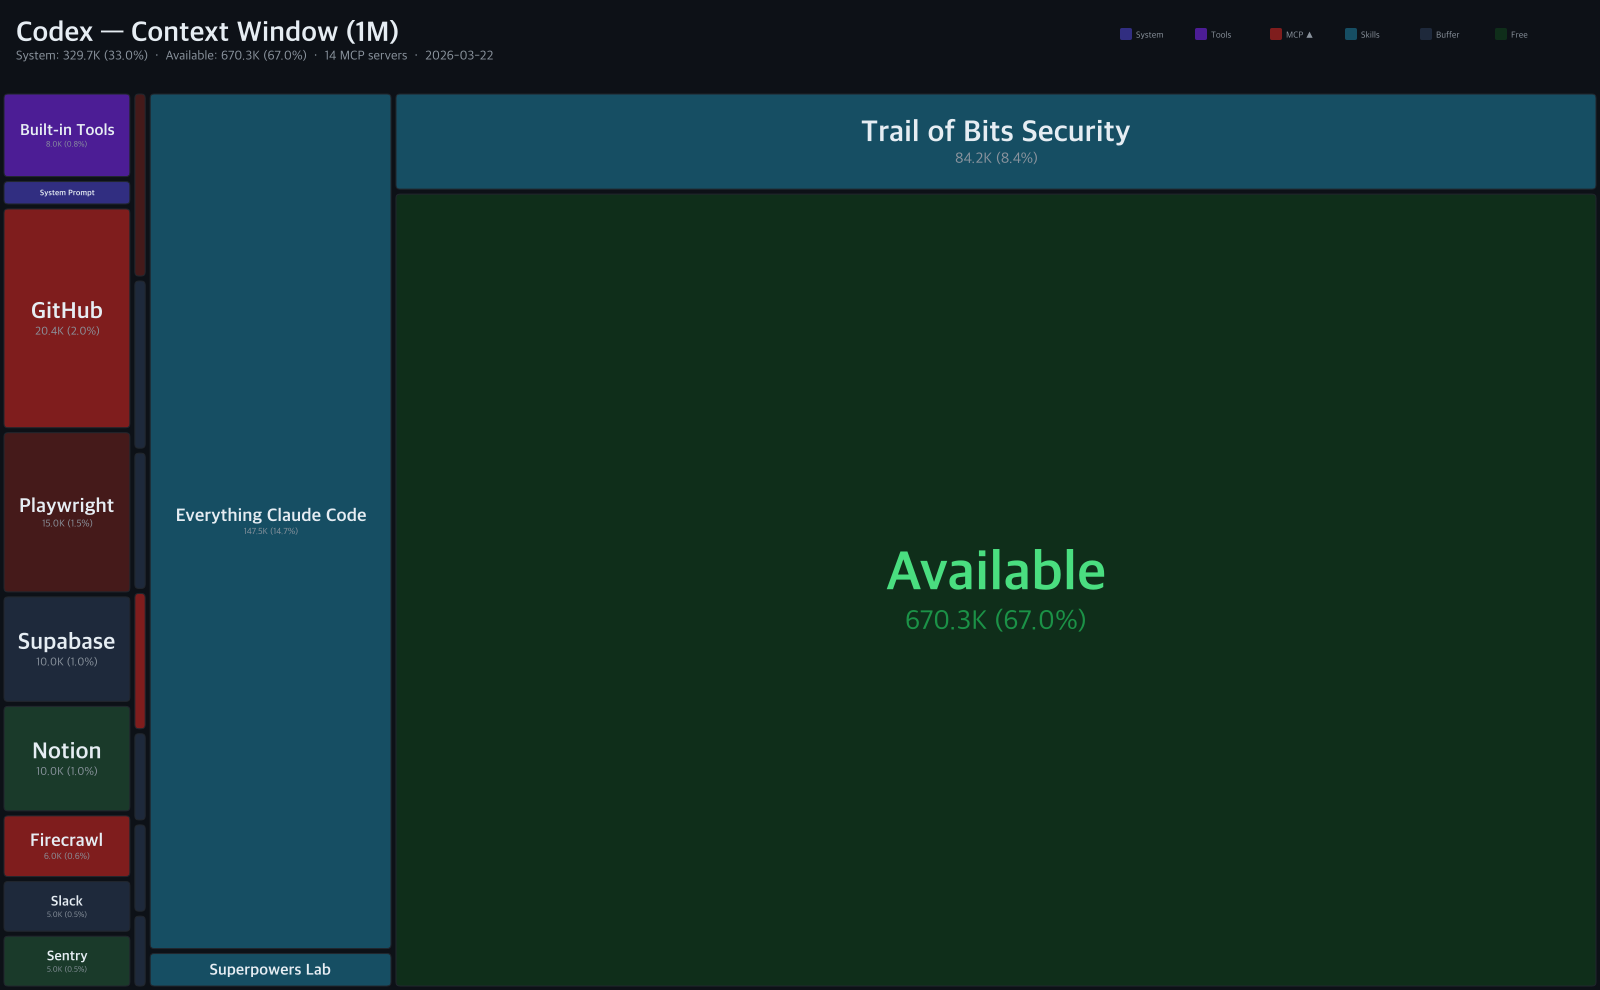
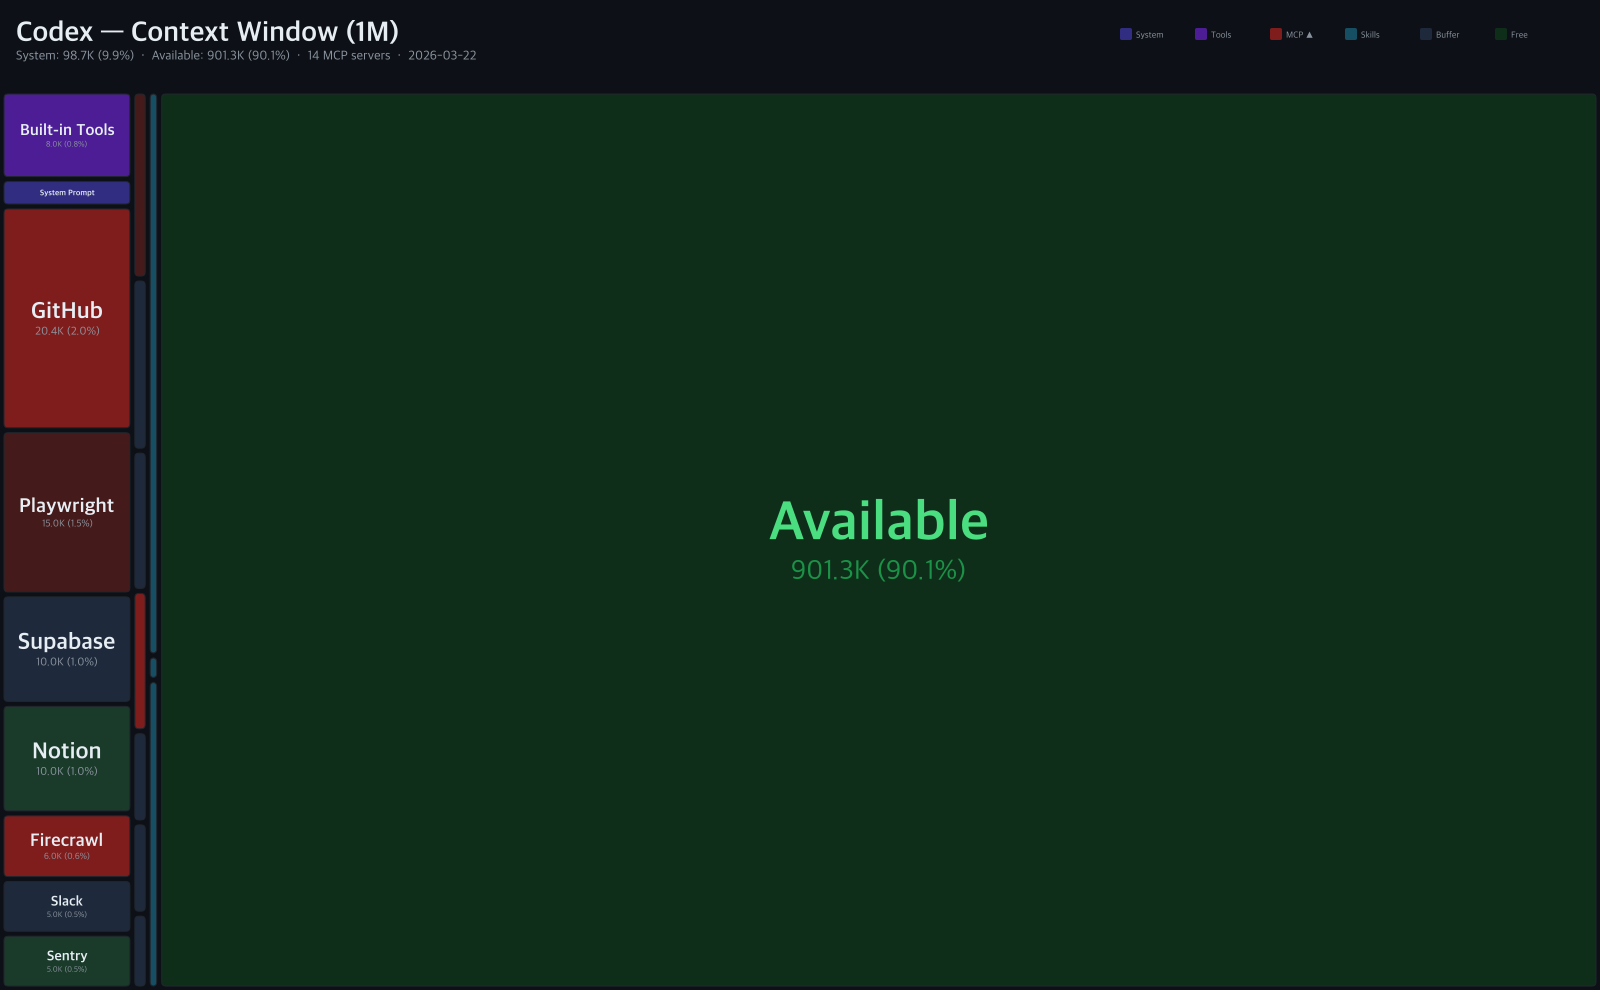
Split into MCP Index + Skill Index (metadata only)
- MCP Index: tool schema tokens, agent-agnostic
- Skill Index: description metadata only (always-on cost)
- Skill blocks sized by alwaysOnTokens, not full body
- Agent treemap also uses metadata-only for skills
- Shared renderBlock() helper for consistent styling

Changed region(s): [[0.0938, 0.0909, 1.0, 1.0], [0.4688, 0.5152, 0.6875, 0.6364], [0.0312, 0.0303, 0.3125, 0.0606]]

diff --git a/scripts/render-treemap.js b/scripts/render-treemap.js
@@ -130,9 +130,69 @@ function loadSkillData() {
   return results;
 }
 
-// ── Render Context Index (MCP + Skills) ──────────────────
+// ── Shared block renderer ────────────────────────────────
 
-function renderContextIndex(snapshot) {
+function renderBlock(ctx, leaf, HEADER, W, H, opts = {}) {
+  const d = leaf.data;
+  const x = leaf.x0, y = leaf.y0 + HEADER;
+  const w = leaf.x1 - leaf.x0, h = leaf.y1 - leaf.y0;
+  const changePct = d.change?.pct || 0;
+
+  // Background
+  ctx.fillStyle = opts.color || changeColor(changePct);
+  roundRect(ctx, x + 1, y + 1, w - 2, h - 2, 4);
+  ctx.fill();
+
+  // Border
+  ctx.strokeStyle = STYLE.border;
+  ctx.lineWidth = 1;
+  roundRect(ctx, x + 1, y + 1, w - 2, h - 2, 4);
+  ctx.stroke();
+
+  // Label
+  const pad = 6;
+  const innerW = w - pad * 2;
+  const innerH = h - pad * 2;
+  if (innerW < 15 || innerH < 10) return;
+
+  ctx.textAlign = 'center';
+  const cx = x + w / 2;
+  const cy = y + h / 2;
+
+  const shortName = d.displayName || d.name;
+  const changeTxt = changePct > 0 ? `+${changePct}%` : changePct < 0 ? `${changePct}%` : '';
+
+  if (innerH >= 28) {
+    const nameFs = fitFontSize(ctx, shortName, innerW, innerH, 'bold', 0.85, 2);
+    const showSub = innerH > nameFs * 1.6;
+    const subFs = Math.max(8, nameFs * 0.5);
+    const totalH = showSub ? nameFs + subFs * 1.3 : nameFs;
+    const startY = cy - totalH / 2;
+
+    setFont(ctx, nameFs, 'bold');
+    ctx.fillStyle = opts.textColor || STYLE.textPrimary;
+    ctx.fillText(shortName, cx, startY + nameFs * 0.85);
+
+    if (showSub && opts.subText) {
+      setFont(ctx, subFs);
+      ctx.fillStyle = changePct !== 0 ? changeBadgeColor(changePct) : STYLE.textSecondary;
+      ctx.fillText(opts.subText, cx, startY + nameFs * 0.85 + subFs * 1.4);
+    }
+  } else {
+    const fs = Math.min(innerH * 0.7, fitFontSize(ctx, shortName, innerW, innerH, 'bold', 0.9, 1));
+    if (fs >= 7) {
+      setFont(ctx, fs, 'bold');
+      ctx.fillStyle = opts.textColor || STYLE.textPrimary;
+      ctx.fillText(shortName, cx, cy + fs * 0.35);
+    }
+  }
+
+  ctx.textAlign = 'left';
+}
+
+// ── Render MCP Index ─────────────────────────────────────
+
+function renderMcpIndex(snapshot) {
   const W = 1600, H = 900;
   const HEADER = 90;
   const PAD = 3;
@@ -143,166 +203,42 @@ function renderContextIndex(snapshot) {
   ctx.fillStyle = STYLE.bg;
   ctx.fillRect(0, 0, W, H + HEADER);
 
-  // Combine MCP servers + skill packs
-  const items = [];
+  const servers = snapshot.servers
+    .map(s => ({ ...s, displayName: s.name.replace(' MCP', '').replace(' Server', '') }))
+    .sort((a, b) => b.tokens - a.tokens);
 
-  // MCP servers
-  for (const s of snapshot.servers) {
-    items.push({
-      ...s,
-      type: 'mcp',
-      displayName: s.name.replace(' MCP', '').replace(' Server', ''),
-    });
-  }
+  const totalTokens = servers.reduce((s, x) => s + x.tokens, 0);
+  const totalTools = servers.reduce((s, x) => s + x.tools, 0);
 
-  // Skill packs
-  const skills = loadSkillData();
-  for (const skill of skills) {
-    items.push({
-      name: skill.name,
-      displayName: skill.name,
-      tokens: skill.tokens,
-      alwaysOnTokens: skill.alwaysOnTokens,
-      fullBodyTokens: skill.fullBodyTokens,
-      tools: skill.skillCount,
-      type: 'skill',
-      change: { pct: 0 },
-    });
-  }
-
-  items.sort((a, b) => b.tokens - a.tokens);
-
-  const totalTokens = items.reduce((s, x) => s + x.tokens, 0);
-  const mcpCount = items.filter(x => x.type === 'mcp').length;
-  const skillCount = items.filter(x => x.type === 'skill').length;
-
-  // D3 treemap layout
-  const root = hierarchy({
-    children: items.map(s => ({ ...s, value: s.tokens })),
-  }).sum(d => d.value);
-
+  const root = hierarchy({ children: servers.map(s => ({ ...s, value: s.tokens })) }).sum(d => d.value);
   treemap().size([W, H]).padding(PAD).tile(treemapSquarify)(root);
 
-  // Draw blocks
   for (const leaf of root.leaves()) {
     const d = leaf.data;
-    const x = leaf.x0, y = leaf.y0 + HEADER;
-    const w = leaf.x1 - leaf.x0, h = leaf.y1 - leaf.y0;
-
     const changePct = d.change?.pct || 0;
-
-    // Skills: split block into always-on (dark) + on-invoke (lighter)
-    if (d.type === 'skill' && d.alwaysOnTokens > 0 && d.fullBodyTokens > 0) {
-      const totalSkillTokens = d.alwaysOnTokens + d.fullBodyTokens;
-      const alwaysRatio = d.alwaysOnTokens / totalSkillTokens;
-
-      // Draw on-invoke area (lighter, full block)
-      ctx.fillStyle = '#0e3a47';
-      roundRect(ctx, x + 1, y + 1, w - 2, h - 2, 4);
-      ctx.fill();
-
-      // Draw always-on area (darker, left portion)
-      const alwaysW = Math.max(8, (w - 2) * alwaysRatio);
-      ctx.fillStyle = '#164e63';
-      roundRect(ctx, x + 1, y + 1, alwaysW, h - 2, 4);
-      ctx.fill();
-
-      // Divider line
-      if (alwaysW < w - 10) {
-        ctx.strokeStyle = '#0d1117';
-        ctx.lineWidth = 2;
-        ctx.beginPath();
-        ctx.moveTo(x + 1 + alwaysW, y + 1);
-        ctx.lineTo(x + 1 + alwaysW, y + h - 1);
-        ctx.stroke();
-      }
-    } else {
-      const bgColor = d.type === 'skill' ? '#164e63' : changeColor(changePct);
-      ctx.fillStyle = bgColor;
-      roundRect(ctx, x + 1, y + 1, w - 2, h - 2, 4);
-      ctx.fill();
-    }
-
-    ctx.strokeStyle = STYLE.border;
-    ctx.lineWidth = 1;
-    roundRect(ctx, x + 1, y + 1, w - 2, h - 2, 4);
-    ctx.stroke();
-
-    // Label
-    const pad = 6;
-    const innerW = w - pad * 2;
-    const innerH = h - pad * 2;
-    if (innerW < 15 || innerH < 10) continue;
-
-    ctx.textAlign = 'center';
-    const cx = x + w / 2;
-    const cy = y + h / 2;
-
-    const shortName = d.displayName;
     const changeTxt = changePct > 0 ? `+${changePct}%` : changePct < 0 ? `${changePct}%` : '';
-
-    if (innerH >= 28) {
-      const nameFs = fitFontSize(ctx, shortName, innerW, innerH, 'bold', 0.85, 2);
-      const showSub = innerH > nameFs * 1.6;
-      const subFs = Math.max(8, nameFs * 0.5);
-      const totalH = showSub ? nameFs + subFs * 1.3 : nameFs;
-      const startY = cy - totalH / 2;
-
-      setFont(ctx, nameFs, 'bold');
-      ctx.fillStyle = STYLE.textPrimary;
-      ctx.fillText(shortName, cx, startY + nameFs * 0.85);
-
-      if (showSub) {
-        let subText;
-        if (d.type === 'skill' && d.alwaysOnTokens > 0) {
-          // Show always-on vs on-invoke breakdown
-          subText = `${formatTokens(d.alwaysOnTokens)} always-on · ${formatTokens(d.fullBodyTokens || 0)} on invoke`;
-        } else {
-          const parts = [formatTokens(d.tokens)];
-          if (changeTxt) parts.push(changeTxt);
-          subText = parts.join('  ');
-        }
-
-        setFont(ctx, subFs);
-        ctx.fillStyle = changePct !== 0 ? changeBadgeColor(changePct) : STYLE.textSecondary;
-        ctx.fillText(subText, cx, startY + nameFs * 0.85 + subFs * 1.4);
-      }
-    } else {
-      const fs = Math.min(innerH * 0.7, fitFontSize(ctx, shortName, innerW, innerH, 'bold', 0.9, 1));
-      if (fs >= 7) {
-        setFont(ctx, fs, 'bold');
-        ctx.fillStyle = STYLE.textPrimary;
-        ctx.fillText(shortName, cx, cy + fs * 0.35);
-      }
-    }
-
-    ctx.textAlign = 'left';
+    const subText = `${formatTokens(d.tokens)}  ${changeTxt}`;
+    renderBlock(ctx, leaf, HEADER, W, H, { subText });
   }
 
-  // ── Header ──
+  // Header
   ctx.fillStyle = STYLE.bg;
   ctx.fillRect(0, 0, W, HEADER);
 
   setFont(ctx, 30, 'bold');
   ctx.fillStyle = STYLE.textPrimary;
-  ctx.fillText('Context Index', 16, 42);
+  ctx.fillText('MCP Index', 16, 42);
 
   setFont(ctx, 13);
   ctx.fillStyle = STYLE.textSecondary;
   ctx.fillText(
-    `Total: ${totalTokens.toLocaleString()} tokens (${(totalTokens / 1000000 * 100).toFixed(1)}% of 1M)  ·  ${mcpCount} MCP servers  ·  ${skillCount} skill packs  ·  ${snapshot.date}`,
+    `Total: ${totalTokens.toLocaleString()} tokens (${(totalTokens / 1000000 * 100).toFixed(1)}% of 1M)  ·  ${servers.length} servers  ·  ${totalTools} tools  ·  ${snapshot.date}`,
     16, 62
   );
 
-  // Legend
-  const legendX = W - 500;
-  const legends = [
-    ['#7f1d1d', '▲ 5%+'], ['#451a1a', '▲ 0~5%'],
-    ['#1e293b', 'No change'], ['#14532d', '▼ Decrease'],
-    ['#164e63', 'Skill Pack'],
-  ];
-  legends.forEach(([color, label], i) => {
-    const lx = legendX + i * 95;
+  const legendX = W - 380;
+  [['#7f1d1d', '▲ 5%+'], ['#451a1a', '▲ 0~5%'], ['#1e293b', 'No change'], ['#14532d', '▼ Decrease']].forEach(([color, label], i) => {
+    const lx = legendX + i * 90;
     ctx.fillStyle = color;
     roundRect(ctx, lx, 30, 12, 12, 2);
     ctx.fill();
@@ -310,6 +246,64 @@ function renderContextIndex(snapshot) {
     ctx.fillStyle = STYLE.textSecondary;
     ctx.fillText(label, lx + 16, 40);
   });
+
+  return canvas;
+}
+
+// ── Render Skill Index ───────────────────────────────────
+
+function renderSkillIndex() {
+  const W = 1600, H = 900;
+  const HEADER = 90;
+  const PAD = 3;
+
+  const canvas = createCanvas(W, H + HEADER);
+  const ctx = canvas.getContext('2d');
+
+  ctx.fillStyle = STYLE.bg;
+  ctx.fillRect(0, 0, W, H + HEADER);
+
+  const skills = loadSkillData().filter(s => s.alwaysOnTokens > 0);
+  if (skills.length === 0) return null;
+
+  // Use alwaysOnTokens for block size (metadata only)
+  const items = skills.map(s => ({
+    ...s,
+    displayName: s.name,
+    value: s.alwaysOnTokens,
+    tokens: s.alwaysOnTokens,
+    change: { pct: 0 },
+  }));
+
+  const totalAlwaysOn = items.reduce((s, x) => s + x.alwaysOnTokens, 0);
+  const totalSkills = items.reduce((s, x) => s + (x.skillCount || 0), 0);
+
+  const root = hierarchy({ children: items }).sum(d => d.value);
+  treemap().size([W, H]).padding(PAD).tile(treemapSquarify)(root);
+
+  for (const leaf of root.leaves()) {
+    const d = leaf.data;
+    const subText = `${formatTokens(d.alwaysOnTokens)} always-on · ${d.skillCount || 0} skills`;
+    renderBlock(ctx, leaf, HEADER, W, H, {
+      color: '#164e63',
+      subText,
+    });
+  }
+
+  // Header
+  ctx.fillStyle = STYLE.bg;
+  ctx.fillRect(0, 0, W, HEADER);
+
+  setFont(ctx, 30, 'bold');
+  ctx.fillStyle = STYLE.textPrimary;
+  ctx.fillText('Skill Index', 16, 42);
+
+  setFont(ctx, 13);
+  ctx.fillStyle = STYLE.textSecondary;
+  ctx.fillText(
+    `Always-on total: ${totalAlwaysOn.toLocaleString()} tokens  ·  ${items.length} skill packs  ·  ${totalSkills} skills  ·  description metadata only`,
+    16, 62
+  );
 
   return canvas;
 }
@@ -360,16 +354,18 @@ function renderAgentContext(agentName, agentData, mcpSnapshot) {
     }
   }
 
-  // Skills (always-on description tokens)
+  // Skills (always-on metadata only)
   const skills = loadSkillData();
   for (const skill of skills) {
-    items.push({
-      name: skill.name,
-      tokens: skill.tokens,
-      color: '#164e63',
-      change: 0,
-      category: 'skill',
-    });
+    if (skill.alwaysOnTokens > 0) {
+      items.push({
+        name: skill.name,
+        tokens: skill.alwaysOnTokens,
+        color: '#164e63',
+        change: 0,
+        category: 'skill',
+      });
+    }
   }
 
   // Free space
@@ -486,12 +482,21 @@ function renderAgentContext(agentName, agentData, mcpSnapshot) {
   const { mkdirSync: mkdirSyncFn } = await import('fs');
   if (!existsSync(archiveDir)) mkdirSyncFn(archiveDir, { recursive: true });
 
-  // 1. Context Index (MCP + Skills)
-  console.log('  Rendering Context Index...');
-  const indexCanvas = renderContextIndex(snapshot);
-  const indexBuf = indexCanvas.toBuffer('image/png');
-  writeFileSync(join(IMAGES_DIR, 'context-index-latest.png'), indexBuf);
-  writeFileSync(join(archiveDir, 'context-index.png'), indexBuf);
+  // 1. MCP Index
+  console.log('  Rendering MCP Index...');
+  const mcpCanvas = renderMcpIndex(snapshot);
+  const mcpBuf = mcpCanvas.toBuffer('image/png');
+  writeFileSync(join(IMAGES_DIR, 'mcp-index-latest.png'), mcpBuf);
+  writeFileSync(join(archiveDir, 'mcp-index.png'), mcpBuf);
+
+  // 2. Skill Index
+  console.log('  Rendering Skill Index...');
+  const skillCanvas = renderSkillIndex();
+  if (skillCanvas) {
+    const skillBuf = skillCanvas.toBuffer('image/png');
+    writeFileSync(join(IMAGES_DIR, 'skill-index-latest.png'), skillBuf);
+    writeFileSync(join(archiveDir, 'skill-index.png'), skillBuf);
+  }
 
   // 2. Claude Code
   const claudeDataPath = join(DATA_DIR, 'agents', 'claude-code.json');

diff --git a/README.md b/README.md
@@ -8,11 +8,17 @@ Your 1M context window isn't unlimited. Before you type a single message, system
 
 ## Latest Snapshot
 
-### Context Index
+### MCP Index
 
-> How much context do MCP servers and skill packs consume?
+> How much context do popular MCP servers consume?
 
-![Context Index](images/context-index-latest.png)
+![MCP Index](images/mcp-index-latest.png)
+
+### Skill Index
+
+> How much always-on context do skill packs cost? (description metadata only)
+
+![Skill Index](images/skill-index-latest.png)
 
 ### Claude Code — Context Window (1M)
 
